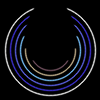
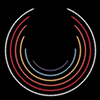
Fix BGR to RGB in palette load

Changed region(s): [[0.09, 0.15, 0.93, 0.93]]

diff --git a/src/color/palettes.py b/src/color/palettes.py
@@ -24,8 +24,14 @@ class ColorLoversPalette():
         if n > len(self.colors):
             msg = f"Only {len(self)} palettes known, requested number {n}"
             raise KeyError(msg)
+
+        pal = self.colors[n]
+
+        # Convert from BGR to RGB
+        pal = [(p[2], p[1], p[0]) for p in pal]
         
-        return self.colors[n]
+        return pal
+
 
     def __len__(self):
         return len(self.colors)
